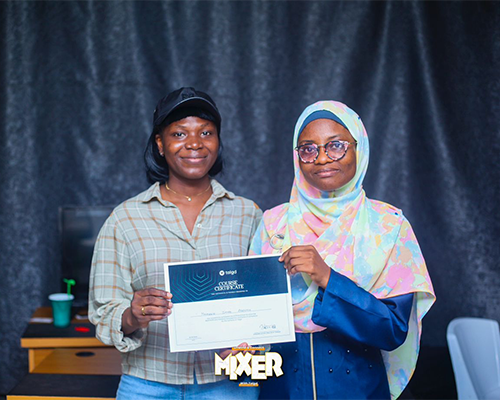
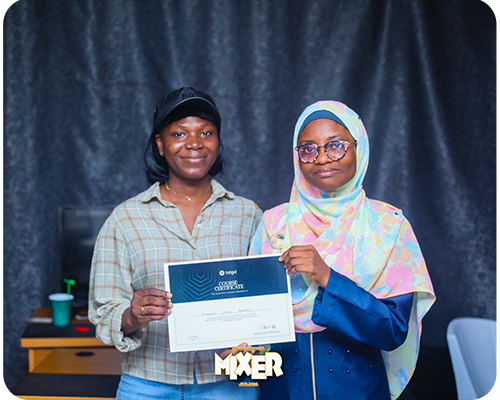
new commit

Changed region(s): [[0.93, 0.0, 1.0, 1.0], [0.0, 0.0, 0.06, 1.0]]

diff --git a/src/component/pages/home.js b/src/component/pages/home.js
@@ -3,7 +3,7 @@ import Image from "../images/happy-man-working-laptop_758367-122878.png"
 import Colon from "../images/image 7.png"
 import colon1 from "../images/Logo (4).png"
 import colon2 from "../images/image 9.png"
-import certificate from "../images/image 10.jpg"
+import certificate from "../images/image 10.jpg.png"
 import coaching from "../images/image 11.png"
 import expert from "../images/image 12.png"
 import work1 from "../images/work1.png"
